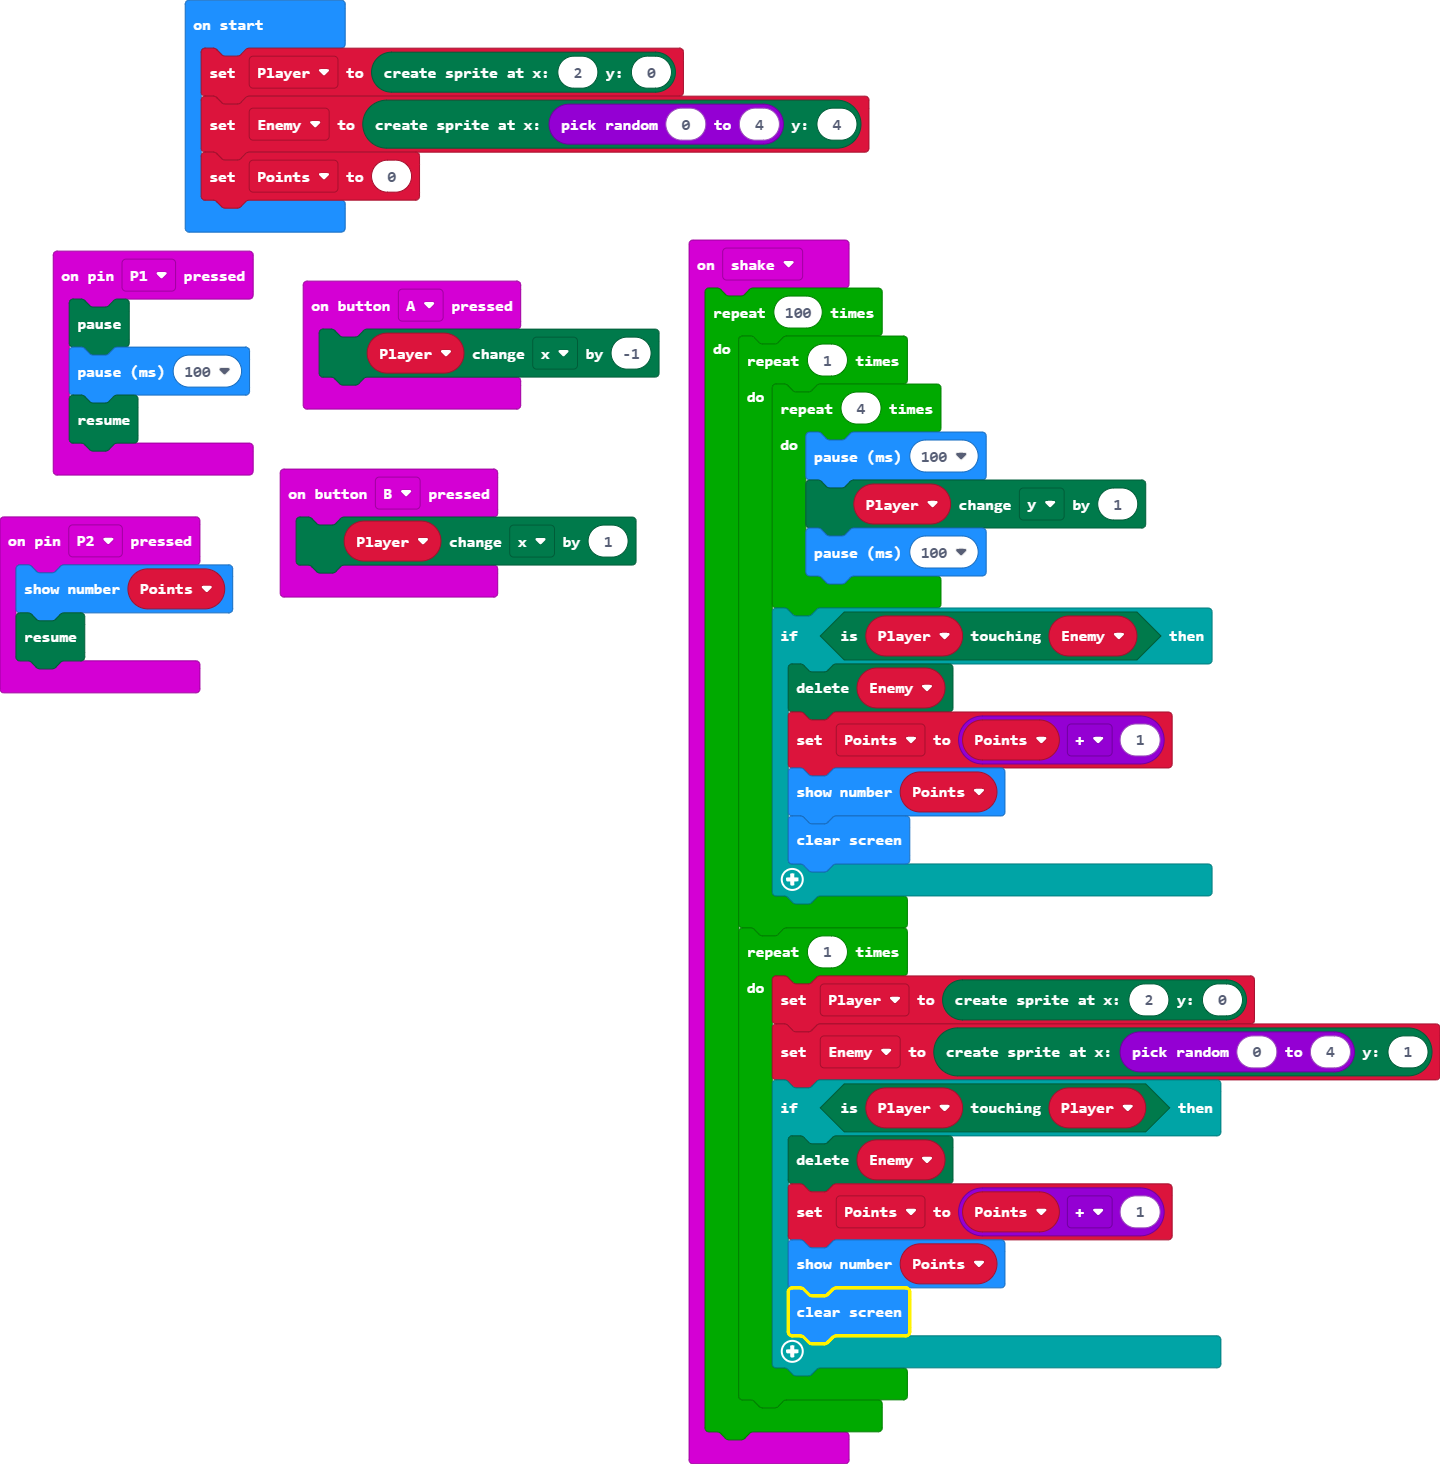
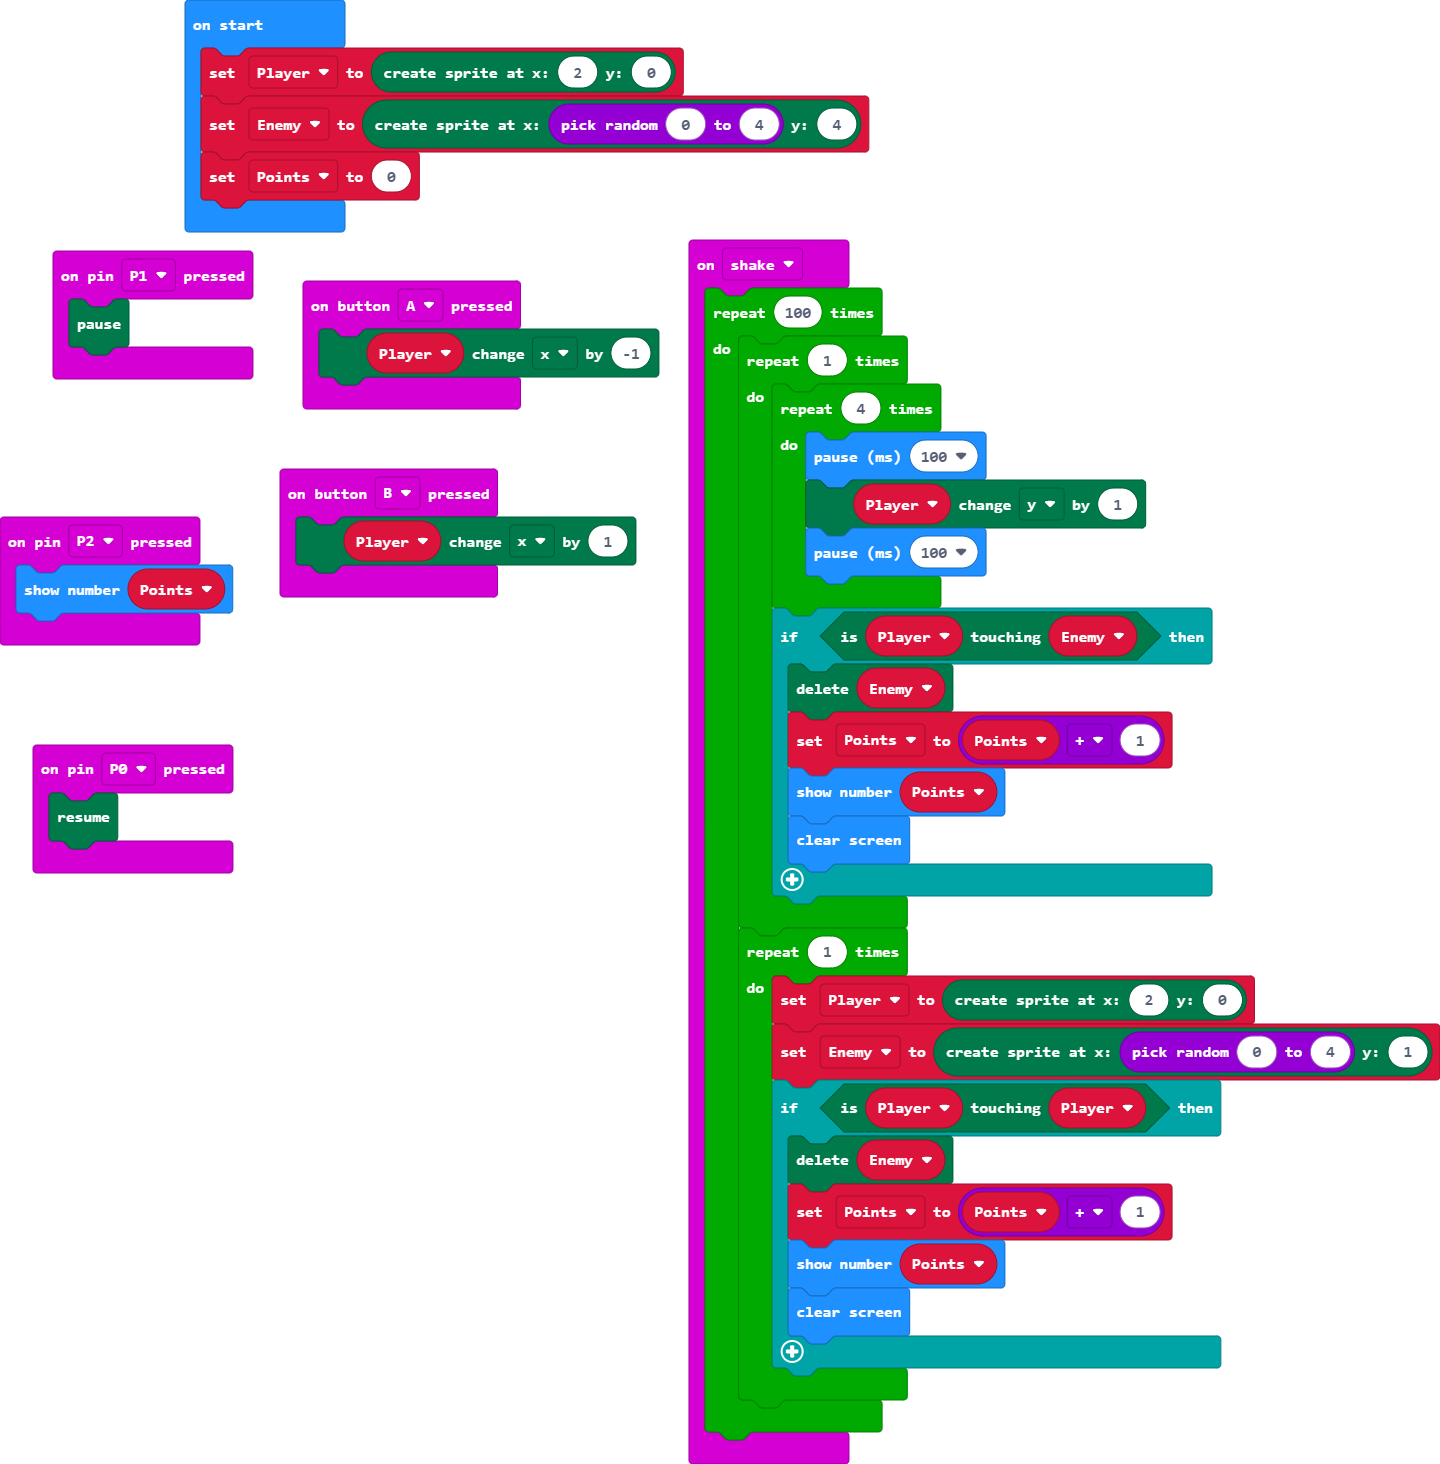
Update main.blocks, main.ts

diff --git a/main.ts b/main.ts
@@ -1,17 +1,17 @@
+input.onPinPressed(TouchPin.P0, function () {
+    game.resume()
+})
 input.onButtonPressed(Button.A, function () {
     Player.change(LedSpriteProperty.X, -1)
 })
 input.onPinPressed(TouchPin.P2, function () {
     basic.showNumber(Points)
-    game.resume()
 })
 input.onButtonPressed(Button.B, function () {
     Player.change(LedSpriteProperty.X, 1)
 })
 input.onPinPressed(TouchPin.P1, function () {
     game.pause()
-    basic.pause(100)
-    game.resume()
 })
 input.onGesture(Gesture.Shake, function () {
     for (let index = 0; index < 100; index++) {
